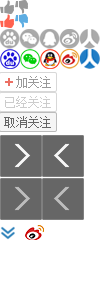
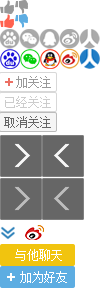
ssfffffw

Changed region(s): [[0.0, 0.81, 0.75, 0.96]]

diff --git a/islogin_company_index.html b/islogin_company_index.html
@@ -409,6 +409,100 @@
                 	<img src="images/tjt.png" width="298" height="275" style="display: block;">
                 </div>
                </div>  
+               
+               <div class="blank_20px"></div>
+               	<div class="right_aside section_box">
+               		<div class="right_aside_title">
+               		<h3>跟你有关的雇员</h3>
+               		<span>全部雇员120</span>
+               	</div>  
+               	<div class="blank_10px"></div>
+               	<div class="right_head_50px_list popup_layer_servant" id="servant_box">
+               		<ul id="popup_layer_servant_ul">
+               			<li><a href="#"><img src="images/for_true_img50px.png" data-servant-name="隐私汗1" data-servant-position="市场经理" data-servant-commpany="天际博人科技..." data-servant-isfriend="0" width="50" height="50" alt=""></a></li>
+               			<li><a href="#"><img src="images/sj_img.png" width="50" data-servant-name="隐私汗2" data-servant-position="市场经理" data-servant-commpany="天际博人科技..." data-servant-isfriend="0"  height="50" alt=""></a></li>
+               			<li><a href="#"><img src="images/sj_img.png" width="50" data-servant-name="隐私汗3" data-servant-position="市场经理" data-servant-commpany="天际博人科技..." data-servant-isfriend="0"  height="50" alt=""></a></li>
+               			<li><a href="#"><img src="images/sj_img.png" width="50" data-servant-name="隐私汗4" data-servant-position="市场经理" data-servant-commpany="天际博人科技..." data-servant-isfriend="0"  height="50" alt=""></a></li>
+               			<li><a href="#"><img src="images/for_true_img50px.png" data-servant-name="隐私汗5" data-servant-position="市场经理" data-servant-commpany="天际博人科技..." data-servant-isfriend="0"  width="50" height="50" alt=""></a></li>
+               			<li><a href="#"><img src="images/sj_img.png" width="50" data-servant-name="隐私汗6" data-servant-position="市场经理" data-servant-commpany="天际博人科技..." data-servant-isfriend="0"   height="50" alt=""></a></li>
+               			<li><a href="#"><img src="images/sj_img.png" width="50" data-servant-name="隐私汗7" data-servant-position="市场经理" data-servant-commpany="天际博人科技..." data-servant-isfriend="0"  height="50" alt=""></a></li>
+               			<li><a href="#"><img src="images/sj_img.png" width="50" data-servant-name="隐私汗8" data-servant-position="市场经理" data-servant-commpany="天际博人科技..." data-servant-isfriend="0"  height="50" alt=""></a></li>
+               		</ul>
+               		 <div id="popu_layer_servant_box" class="popu_layer_servant_box bk70 png_ie6">
+               		      <div class="popu_layer_img_box">
+               			  <img src="images/sj_img.png" width="50" height="50" alt="">
+               			  </div>
+               			 <div class="popu_layer_servant_mes">
+               			  <h5><strong>我是谁</strong>公司经理</h5>
+               			  <p>天际博人科技有限...</p>
+               			   </div>
+               			  <div class="popu_layer_servant_btn">
+               			 <!-- <a href="#" class="start_chat"></a>-->
+               			   	<a href="#" class="add_firends"></a>
+               			   </div>
+               		      </div>
+               		
+               	</div>
+               
+               	<div class="clear"></div>
+               	</div>
+               	<script>
+//             		$(document).ready(function(e){
+//             		  var popup_layer_servantli=$("#popup_layer_servant_ul").children("li")
+//             		  
+//             		   popup_layer_servantli.bind('mouseover',function(){
+//             		   	    var $this=$(this),
+//             		   	        $this_img=$this.find("img")
+//                              $top_value=$this.position().top+6
+//                          function get_attr(attrname){
+//             		   	    	return $this_img.attr(attrname)
+//             		   	    }
+//             		   	      
+//             		   	var popup_servant_attr={
+//             		   		imgurl:get_attr("src"),
+//             		   		servant_name:get_attr("data-servant-name"),
+//             		   		servant_position:get_attr("data-servant-position"),
+//             		   		servant_commpany:get_attr("data-servant-commpany"),
+//             		   	    servant_isfriend:get_attr("data-servant-isfriend")
+//             		   	}
+//             		   
+////             		   	if($("#popu_layer_servant_box").length==0){
+//             		      var html=''
+//             		       html+='<div id="popu_layer_servant_box" class="popu_layer_servant_box bk70 png_ie6">'
+//             		       html+='<div class="popu_layer_img_box">'
+//             			   html+='<img src="images/sj_img.png" width="50" height="50" alt="">'
+//             			   html+='</div>'
+//             			   html+='<div class="popu_layer_servant_mes">'
+//             			   html+='<h5><strong>'+popup_servant_attr.servant_name+'</strong>'+popup_servant_attr.servant_position+'</h5>'
+//             			   html+='<p>'+popup_servant_attr.servant_commpany+'</p>'
+//             			   html+='</div>'
+//             			   html+='<div class="popu_layer_servant_btn">'
+//             			   if(popup_servant_attr.servant_isfriend=="1"){
+//             			   html+='<a href="#" class="start_chat"></a>'
+//             			   }else{
+//             			   	html+='<a href="#" class="add_firends"></a>'
+//             			   }
+//             			   html+='</div>'
+//             		       html+='</div>'
+//             		      $("#servant_box").append(html)
+////             		     }
+//             		      $("#popu_layer_servant_box").css('top',$top_value)                		     
+//             		   })
+//             		     popup_layer_servantli.mouseout(function(){
+//             		    		$("#popu_layer_servant_box").remove()
+//             		    		
+//             		    	})
+//             		   	
+//             		   
+//             		  
+//             			
+//             			
+//             		})
+//             		
+//         
+               	</script>
+               	
+               
                 <div class="blank_20px"></div>
                	<div class="right_aside section_box">
                		<div class="right_aside_title">
@@ -417,10 +511,10 @@
                	<div class="blank_10px"></div>
                	<div class="right_head_50px_list">
                		<ul>
-               			<li><a href="#"><img src="images/for_true_img50px.png"></a></li>
-               			<li><a href="#"><img src="images/sj_img.png"></a></li>
-               			<li><a href="#"><img src="images/sj_img.png"></a></li>
-               			<li><a href="#"><img src="images/sj_img.png"></a></li>
+               			<li><a href="#"><img src="images/for_true_img50px.png" width="50" height="50" alt=""></a></li>
+               			<li><a href="#"><img src="images/sj_img.png" width="50" height="50" alt=""></a></li>
+               			<li><a href="#"><img src="images/sj_img.png" width="50" height="50" alt=""></a></li>
+               			<li><a href="#"><img src="images/sj_img.png" width="50" height="50" alt=""></a></li>
                		</ul>
                		
                	</div>
@@ -438,14 +532,14 @@
                	<div class="blank_10px"></div>
                	<div class="right_head_50px_list">
                		<ul>
-               			<li><a href="#"><img src="images/for_true_img50px.png"></a></li>
-               			<li><a href="#"><img src="images/sj_img.png"></a></li>
-               			<li><a href="#"><img src="images/sj_img.png"></a></li>
-               			<li><a href="#"><img src="images/sj_img.png"></a></li>
-               			<li><a href="#"><img src="images/for_true_img50px.png"></a></li>
-               			<li><a href="#"><img src="images/sj_img.png"></a></li>
-               			<li><a href="#"><img src="images/sj_img.png"></a></li>
-               			<li><a href="#"><img src="images/sj_img.png"></a></li>
+               			<li><a href="#"><img src="images/for_true_img50px.png" width="50" height="50" alt=""></a></li>
+               			<li><a href="#"><img src="images/sj_img.png" width="50" height="50" alt=""></a></li>
+               			<li><a href="#"><img src="images/sj_img.png" width="50" height="50" alt=""></a></li>
+               			<li><a href="#"><img src="images/sj_img.png" width="50" height="50" alt=""></a></li>
+               			<li><a href="#"><img src="images/for_true_img50px.png" width="50" height="50" alt=""></a></li>
+               			<li><a href="#"><img src="images/sj_img.png" width="50" height="50" alt=""></a></li>
+               			<li><a href="#"><img src="images/sj_img.png" width="50" height="50" alt=""></a></li>
+               			<li><a href="#"><img src="images/sj_img.png" width="50" height="50" alt=""></a></li>
                		</ul>
                		
                	</div>
@@ -478,6 +572,56 @@
                	<div class="clear"></div>
                
                	</div>
+               	 <div class="blank_20px"></div>
+               	 <div class="right_aside section_box">
+               		<div class="right_aside_title">
+               		<h3>你可能感兴趣的职位</h3>
+               	</div>  
+               	<div class="blank_10px"></div>
+               	<div class="right_aside_jobs_list">
+               		<ul>
+               			<li>
+               				<div class="right_aside_jobs_list_left">
+               					<h5>web端高级产品经理</h5>
+               					<p><strong>程敬</strong>发布，1.5k－2.0k</p>
+               					
+               				</div>
+               				<div class="right_aside_jobs_list_right">
+               					<p>匹配度：90%</p>
+               					
+               				</div>
+               				
+               			</li>
+               			<li>
+               				<div class="right_aside_jobs_list_left">
+               					<h5>web端高级产品经理</h5>
+               					<p><strong>程敬</strong>发布，1.5k－2.0k</p>
+               				</div>
+               				<div class="right_aside_jobs_list_right">
+               					<p>匹配度：90%</p>
+               				</div>
+               				
+               			</li>
+               			<li>
+               				<div class="right_aside_jobs_list_left">
+               					<h5>web端高级产品经理</h5>
+               					<p><strong>程敬</strong>发布，1.5k－2.0k</p>
+               				</div>
+               				<div class="right_aside_jobs_list_right">
+               					<p>你的好友发布</p>
+               				</div>
+               				
+               			</li>
+               			
+               		</ul>
+               		
+               		
+               	</div>
+               	
+               	
+               	</div>
+               	
+               	
                	
                	
 				</div>
@@ -499,6 +643,9 @@
 					deomShownum: 4, //滚动框架内要显示的滚动的子元素的个数 0表示一个默认是0,此阀值是为了处理滚动样式下框架可显示多个时滚动到最后出现                           //的滚动空白，保证最后一个显示的情况下直接滚动回第一个
 					BnanerGeshu: 1, //在滚动效果下的滚动个数，只对拥有左右按钮时有意义 		
 				}, "#commpany_productionul")
+				//style 辅助
+				$(".right_aside_jobs_list").find("li").last().css("border",'none')
+				
 
 			})
 		</script>

diff --git a/css/style.css b/css/style.css
@@ -16,6 +16,7 @@ a{ text-decoration: none;}
 .blank_10px{ height: 10px; clear:both; overflow: hidden;}
 .blank_15px{height: 15px; clear:both; overflow: hidden;}
 .blank_20px{height: 20px; clear:both; overflow: hidden;}
+.bk70{ background: url(../images/bk70.png);}
 
 .commpany_index_name_tag{ width: 715px; padding: 28px 0px; overflow: hidden; background: #fff;}
 .commpany_logo_box { width: 198px; height: 160px; overflow: hidden; float:left; margin-left: 20px;}
@@ -142,7 +143,7 @@ float:left; margin:0px 5px; display: inline;}
 .commany_right_btn{ width:100%; height: 50px; line-height: 50px; background: #5dade2; text-align: center;}
 .commany_right_btn a {font-size: 16px; color: #FFFFFF;}
 
-.right_aside{ width: 298px;}
+.right_aside{ width: 298px; padding-bottom: 10px;}
 .right_commpany_mes dl{ display: block; padding:20px 10px;}
 .right_commpany_mes dl dt,.right_commpany_mes dl dd{ display: block; margin:3px 5px; float: left; display: inline; background: #f7f7f7; height: 24px; font-size: 12px; line-height: 24px;}
 .right_commpany_mes dl dt{ width: 82px; text-align: center; color: #999999;}
@@ -154,7 +155,7 @@ float:left; margin:0px 5px; display: inline;}
 .right_aside_title{ height: 42px; line-height: 42px; border-bottom: #D1D1D1 solid 1px; position: relative;}
 .right_aside_title h3{ padding-left: 20px;}
 .right_aside_title a.more{position: absolute; padding-right:20px; top: 0px;  right: 20px; font-size: 12px; color: #2a7fb8;}
-
+.right_aside_title span{ position: absolute; right: 20px; top: 0px; font-size: 12px; color: #2a7fb8;}
 .commpany_creator_card{ padding: 20px; overflow: hidden;}
 .commpany_creator_pic{ width: 100px; height: 100px; overflow:hidden; float: left;}
 .commpany_creator_des{float: left; padding: 10px 0px 0px 10px; width: 145px;}
@@ -165,9 +166,30 @@ float:left; margin:0px 5px; display: inline;}
 .commpany_creator_intro{ font-size: 12px; padding:0px 20px 20px; line-height: 18px;}
 
 
+.right_head_50px_list{ padding-left: 8px;}
+.right_head_50px_list ul li{ width: 50px; height: 50px; overflow: hidden; float: left; margin:6px 10px; display: inline; }
+.right_aside_p{ font-size: 12px; line-height: 24px; color: #999999; padding-left: 10px;}
 
-._head_50px_list ul li{ width: 50px; height: 50px; float: left; margin:10px; display: inline;}
+/*add islogin */
+/*雇员处理*/
+#popup_layer_servant_ul{ width: 100%; height: 100%;}
+.popup_layer_servant{ position: relative; overflow: hidden; }
+.popu_layer_servant_box{ position: absolute;top: 6px; left: 18px; height: 50px; width: 260px;}
+.popu_layer_img_box{ width: 50px; height: 50px; overflow: hidden; float: left;}
+.popu_layer_servant_mes{ color: #fff; font-size: 12px; line-height: 20px; padding: 5px 8px; width:110px; height: 40px; float: left;}
+.popu_layer_servant_mes h5 strong{ font-weight:bold; margin-right: 5px;}
+.popu_layer_servant_btn{ width: 75px; float: left; height: 50px; padding-top: 14px;}
+.popu_layer_servant_btn a{ display: block; width: 75px; height: 22px; background: url(../images/company_icon.png);}
+.popu_layer_servant_btn a.start_chat{ background-position:0px -244px; }
+.popu_layer_servant_btn a.add_firends{ background-position:0px -266px;}
 
+
+/*right_aside_jobs_list*/
+.right_aside_jobs_list li{ width: 260px; border-bottom:#ededed dashed 1px; margin: 0 auto; padding: 5px 0px; overflow: hidden;}
+.right_aside_jobs_list_left{ width: 170px; float: left; line-height: 22px; font-size: 12px;}
+.right_aside_jobs_list_left h5{ font-weight: bold;}
+.right_aside_jobs_list_left strong{ font-weight: bold; margin-right: 4px;}
+.right_aside_jobs_list_right{ float: left; width:90px ; text-align: right; line-height: 44px; font-size: 12px;}
 
 
 
